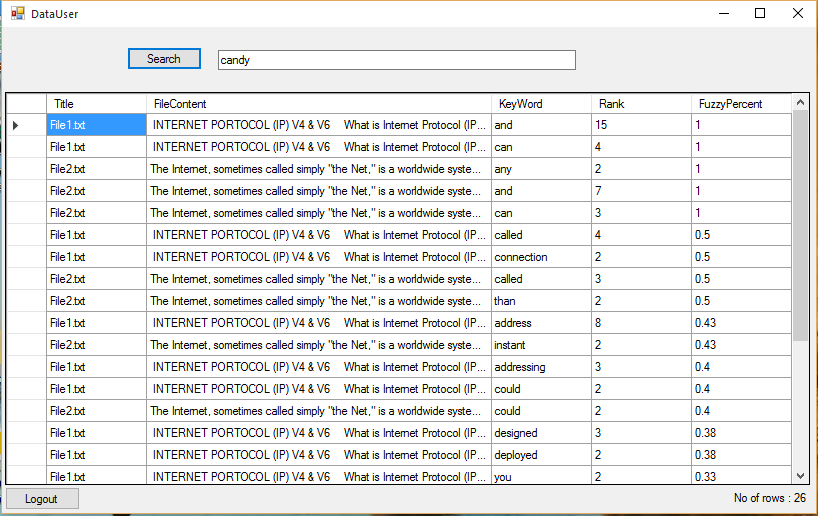
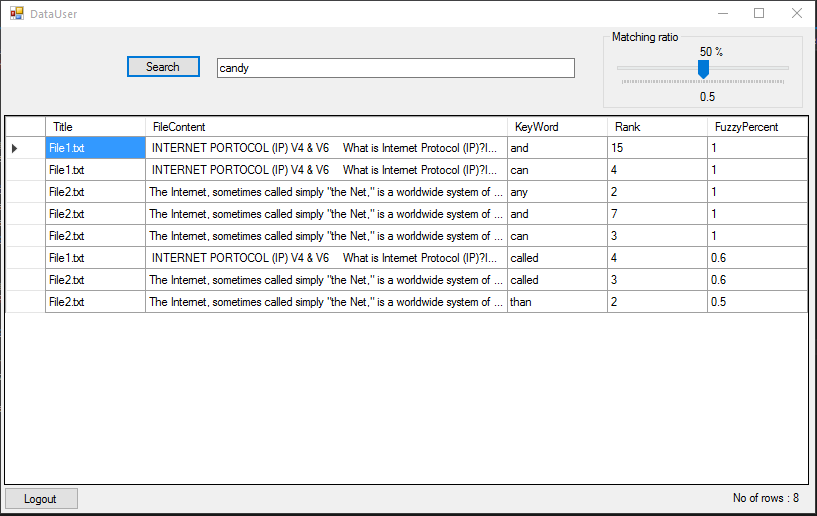
This update allows you to control the Fuzzy Percent
see screenshots

Changed region(s): [[0.0, 0.0, 1.0, 1.0], [0.0, 0.0, 0.0918, 0.062], [0.7344, 0.062, 0.8262, 0.093]]

diff --git a/SimpleCryptographer/FrmDataUser.Designer.cs b/SimpleCryptographer/FrmDataUser.Designer.cs
@@ -38,7 +38,13 @@
             this.txtSearch = new System.Windows.Forms.TextBox();
             this.btnLogOut = new System.Windows.Forms.Button();
             this.btnSearch = new System.Windows.Forms.Button();
+            this.trkFuzzyPercent = new System.Windows.Forms.TrackBar();
+            this.groupBox1 = new System.Windows.Forms.GroupBox();
+            this.lblPercent = new System.Windows.Forms.Label();
+            this.lblFuzzyPercent = new System.Windows.Forms.Label();
             ((System.ComponentModel.ISupportInitialize)(this.dgv)).BeginInit();
+            ((System.ComponentModel.ISupportInitialize)(this.trkFuzzyPercent)).BeginInit();
+            this.groupBox1.SuspendLayout();
             this.SuspendLayout();
             // 
             // lblRowsCount
@@ -61,10 +67,10 @@
             this.dgvColKeyWord,
             this.dgvColRank,
             this.dgvColFuzzyPercent});
-            this.dgv.Location = new System.Drawing.Point(3, 65);
+            this.dgv.Location = new System.Drawing.Point(3, 88);
             this.dgv.Name = "dgv";
             this.dgv.ReadOnly = true;
-            this.dgv.Size = new System.Drawing.Size(805, 393);
+            this.dgv.Size = new System.Drawing.Size(805, 370);
             this.dgv.TabIndex = 32;
             // 
             // dgvColTitle
@@ -100,7 +106,7 @@
             // 
             // txtSearch
             // 
-            this.txtSearch.Location = new System.Drawing.Point(216, 23);
+            this.txtSearch.Location = new System.Drawing.Point(216, 31);
             this.txtSearch.Name = "txtSearch";
             this.txtSearch.Size = new System.Drawing.Size(358, 20);
             this.txtSearch.TabIndex = 34;
@@ -118,7 +124,7 @@
             // 
             // btnSearch
             // 
-            this.btnSearch.Location = new System.Drawing.Point(125, 20);
+            this.btnSearch.Location = new System.Drawing.Point(125, 28);
             this.btnSearch.Name = "btnSearch";
             this.btnSearch.Size = new System.Drawing.Size(75, 23);
             this.btnSearch.TabIndex = 37;
@@ -126,11 +132,51 @@
             this.btnSearch.UseVisualStyleBackColor = true;
             this.btnSearch.Click += new System.EventHandler(this.btnSearch_Click);
             // 
+            // trkFuzzyPercent
+            // 
+            this.trkFuzzyPercent.Location = new System.Drawing.Point(6, 28);
+            this.trkFuzzyPercent.Name = "trkFuzzyPercent";
+            this.trkFuzzyPercent.RightToLeft = System.Windows.Forms.RightToLeft.No;
+            this.trkFuzzyPercent.Size = new System.Drawing.Size(188, 45);
+            this.trkFuzzyPercent.TabIndex = 39;
+            this.trkFuzzyPercent.Scroll += new System.EventHandler(this.trkFuzzyPercent_Scroll);
+            // 
+            // groupBox1
+            // 
+            this.groupBox1.Controls.Add(this.lblPercent);
+            this.groupBox1.Controls.Add(this.lblFuzzyPercent);
+            this.groupBox1.Controls.Add(this.trkFuzzyPercent);
+            this.groupBox1.Location = new System.Drawing.Point(606, 3);
+            this.groupBox1.Name = "groupBox1";
+            this.groupBox1.Size = new System.Drawing.Size(202, 79);
+            this.groupBox1.TabIndex = 40;
+            this.groupBox1.TabStop = false;
+            this.groupBox1.Text = "Matching ratio";
+            // 
+            // lblPercent
+            // 
+            this.lblPercent.AutoSize = true;
+            this.lblPercent.Location = new System.Drawing.Point(94, 15);
+            this.lblPercent.Name = "lblPercent";
+            this.lblPercent.Size = new System.Drawing.Size(24, 13);
+            this.lblPercent.TabIndex = 42;
+            this.lblPercent.Text = "0 %";
+            // 
+            // lblFuzzyPercent
+            // 
+            this.lblFuzzyPercent.AutoSize = true;
+            this.lblFuzzyPercent.Location = new System.Drawing.Point(94, 60);
+            this.lblFuzzyPercent.Name = "lblFuzzyPercent";
+            this.lblFuzzyPercent.Size = new System.Drawing.Size(13, 13);
+            this.lblFuzzyPercent.TabIndex = 41;
+            this.lblFuzzyPercent.Text = "0";
+            // 
             // FrmDataUser
             // 
             this.AutoScaleDimensions = new System.Drawing.SizeF(6F, 13F);
             this.AutoScaleMode = System.Windows.Forms.AutoScaleMode.Font;
             this.ClientSize = new System.Drawing.Size(814, 486);
+            this.Controls.Add(this.groupBox1);
             this.Controls.Add(this.btnSearch);
             this.Controls.Add(this.btnLogOut);
             this.Controls.Add(this.txtSearch);
@@ -139,7 +185,11 @@
             this.Name = "FrmDataUser";
             this.StartPosition = System.Windows.Forms.FormStartPosition.CenterScreen;
             this.Text = "DataUser";
+            this.Load += new System.EventHandler(this.FrmDataUser_Load);
             ((System.ComponentModel.ISupportInitialize)(this.dgv)).EndInit();
+            ((System.ComponentModel.ISupportInitialize)(this.trkFuzzyPercent)).EndInit();
+            this.groupBox1.ResumeLayout(false);
+            this.groupBox1.PerformLayout();
             this.ResumeLayout(false);
             this.PerformLayout();
 
@@ -157,5 +207,9 @@
         private System.Windows.Forms.DataGridViewTextBoxColumn dgvColKeyWord;
         private System.Windows.Forms.DataGridViewTextBoxColumn dgvColRank;
         private System.Windows.Forms.DataGridViewTextBoxColumn dgvColFuzzyPercent;
+        private System.Windows.Forms.TrackBar trkFuzzyPercent;
+        private System.Windows.Forms.GroupBox groupBox1;
+        private System.Windows.Forms.Label lblFuzzyPercent;
+        private System.Windows.Forms.Label lblPercent;
     }
 }

diff --git a/SimpleCryptographer/FrmDataUser.cs b/SimpleCryptographer/FrmDataUser.cs
@@ -98,7 +98,7 @@ namespace SimpleCryptographer
                         string KeyWord = dt1.Rows[i]["Keyword"].ToString();
                         int Id = dt1.Rows[i]["id"].ToInt();
                         double fuzzyPer = Module.FuzzySearch(txtSearch.Text.Trim(), KeyWord);
-                        if (fuzzyPer >= 0.3)
+                        if (fuzzyPer >= lblFuzzyPercent.Text.ToDouble())
                         {
                             dtFuzzy.Rows.Add(dt1.Rows[i]["id"].ToInt(), dt1.Rows[i]["Keyword"].ToString(), fuzzyPer);
                         }
@@ -128,6 +128,24 @@ namespace SimpleCryptographer
         private void btnSearch_Click(object sender, EventArgs e)
         {
             GetData();
+        }
+
+        private void FrmDataUser_Load(object sender, EventArgs e)
+        {
+            trkFuzzyPercent.Minimum = 0;
+            trkFuzzyPercent.Maximum = 100;
+            trkFuzzyPercent.Value = 50;
+            InitializeLabels();
+        }
+
+        private void trkFuzzyPercent_Scroll(object sender, EventArgs e)
+        {
+            InitializeLabels();
+        }
+        private void InitializeLabels()
+        {
+            lblFuzzyPercent.Text = ((trkFuzzyPercent.Value.ToDouble()) / 100).ToString();
+            lblPercent.Text = trkFuzzyPercent.Value + " %";
         }
     }
 }
